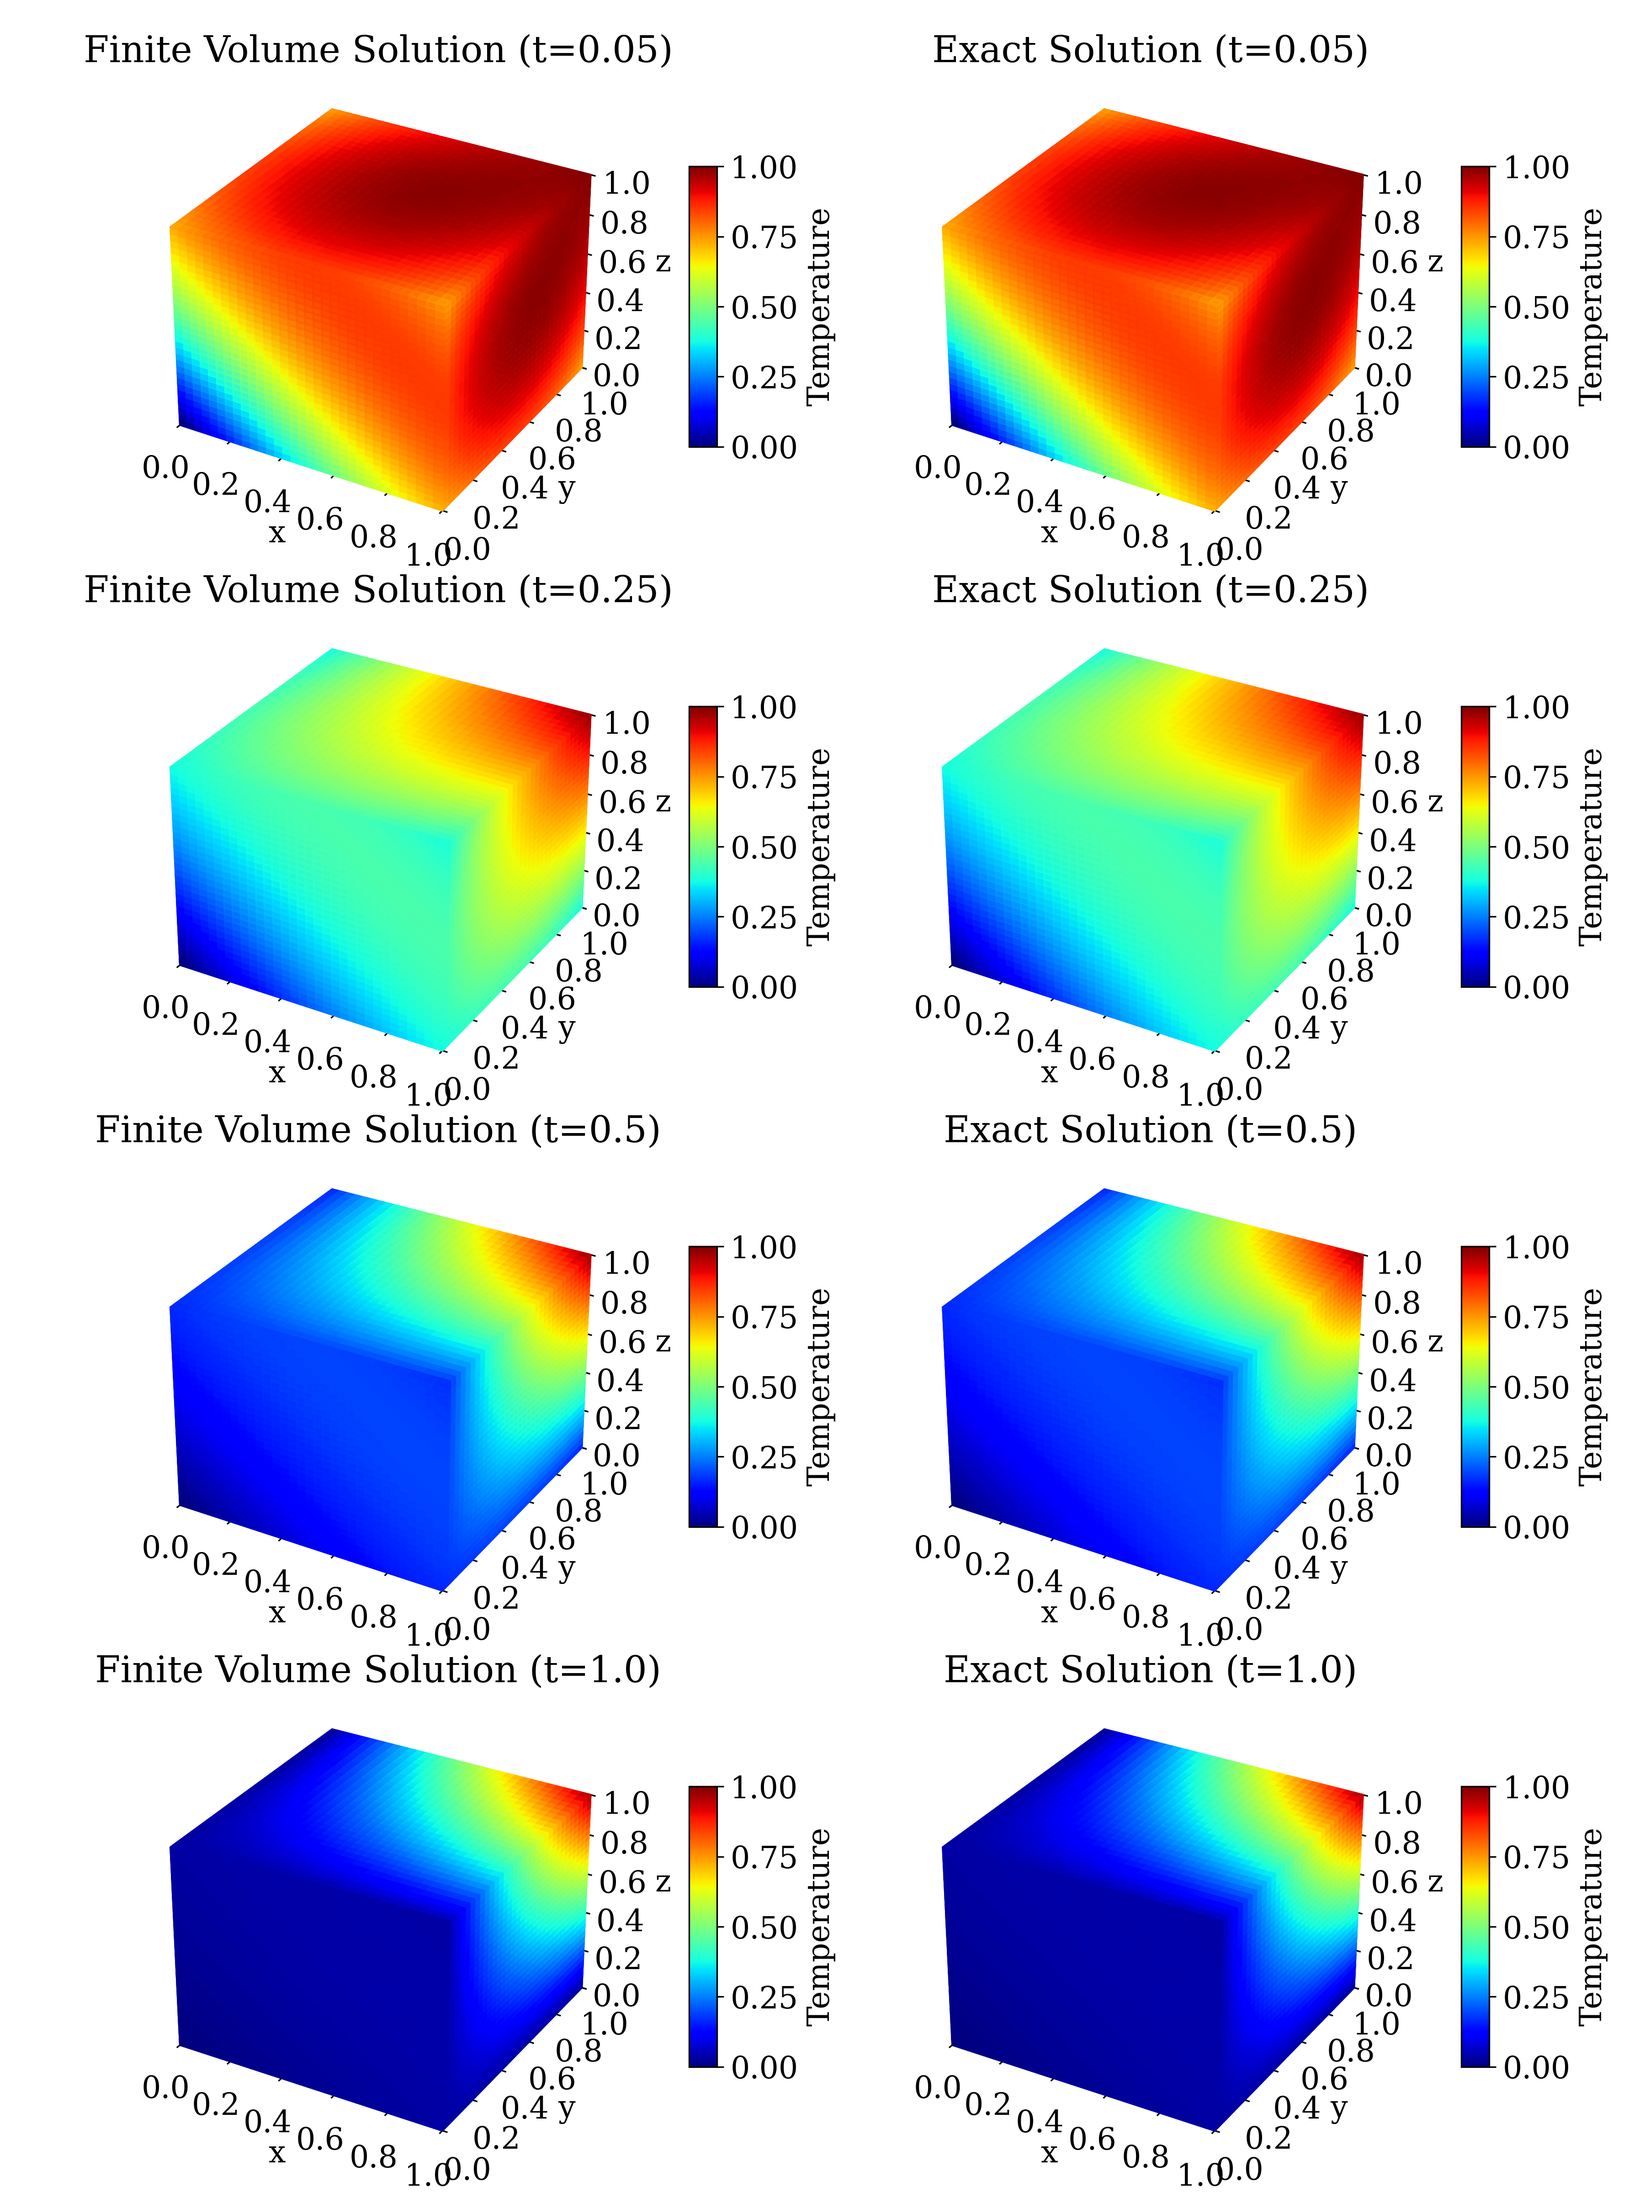
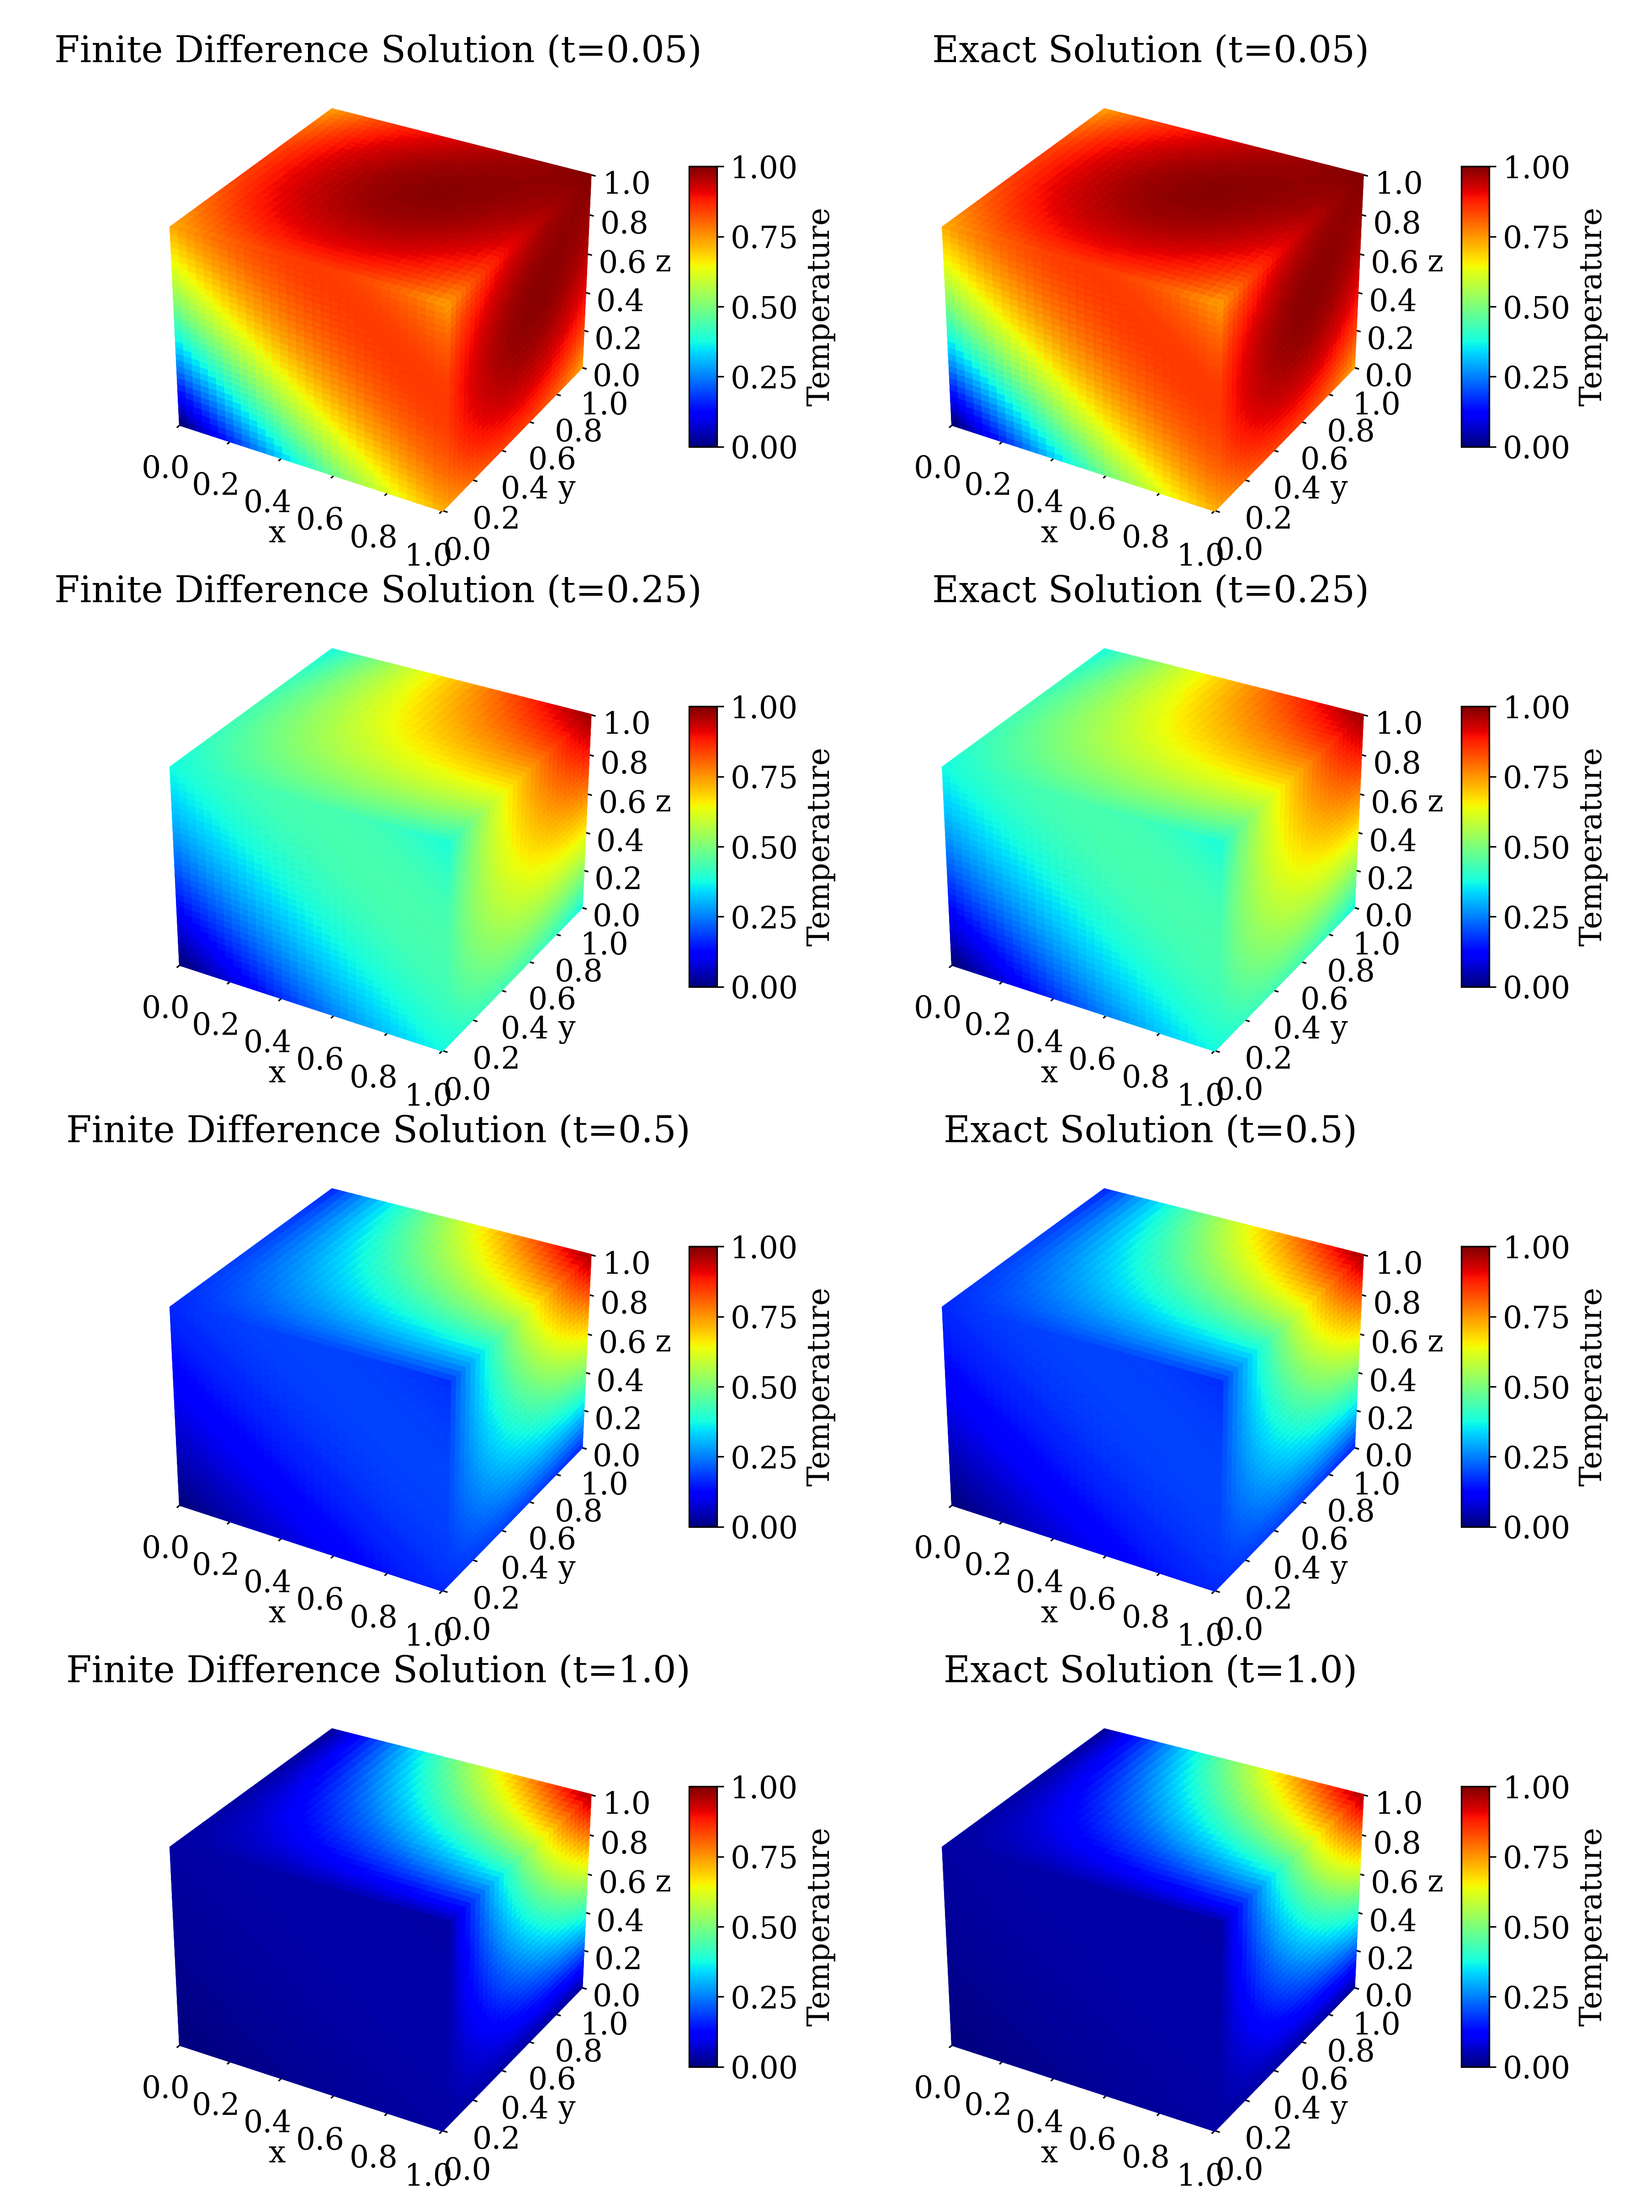
update plots

diff --git a/Chapter3/SingleFieldTimeDependent/3_tmp/3d_heat_explicit.py b/Chapter3/SingleFieldTimeDependent/3_tmp/3d_heat_explicit.py
@@ -286,7 +286,7 @@ for i, t_idx in enumerate(time_indices):
     # FD (left column)
     ax1 = fig.add_subplot(nrows, ncols, i*2 + 1, projection='3d')
     plot_cube_faces(ax1, u.data[t_idx])
-    ax1.set_title(f'Finite Volume Solution (t={time_labels[i]})')
+    ax1.set_title(f'Finite Difference Solution (t={time_labels[i]})')
     ax1.set_xlabel("x"); ax1.set_ylabel("y"); ax1.set_zlabel("z")
     # ax1.view_init(elev=26, azim=25)
     mappable = mpl.cm.ScalarMappable(cmap=cmap, norm=norm)
